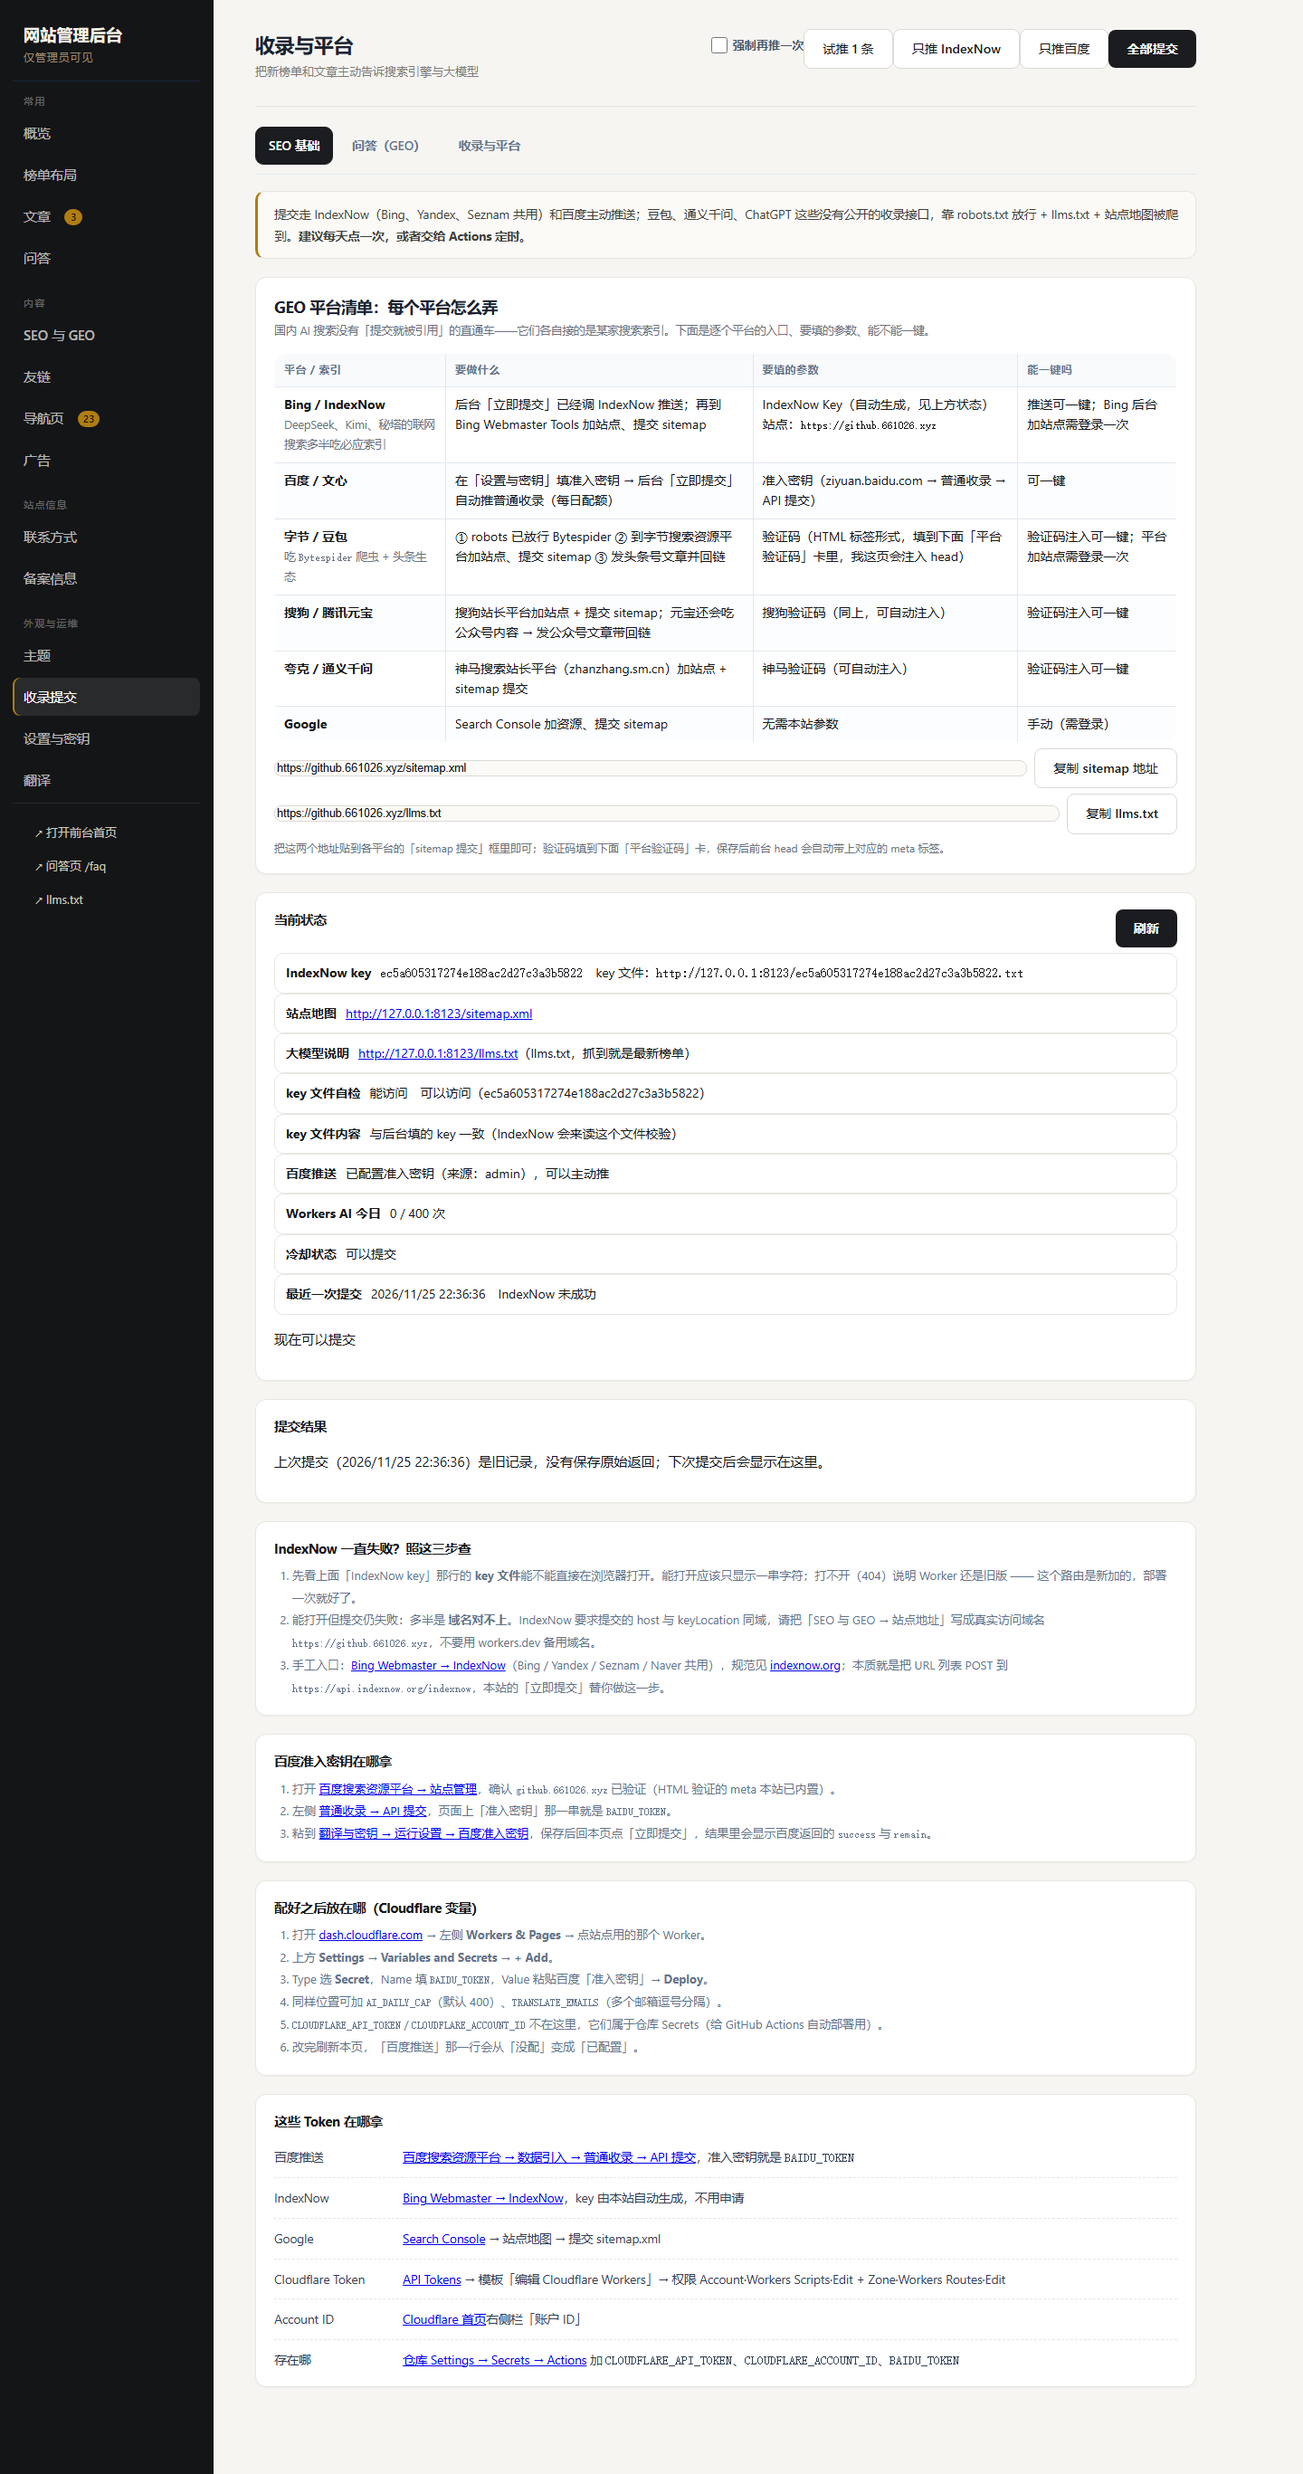
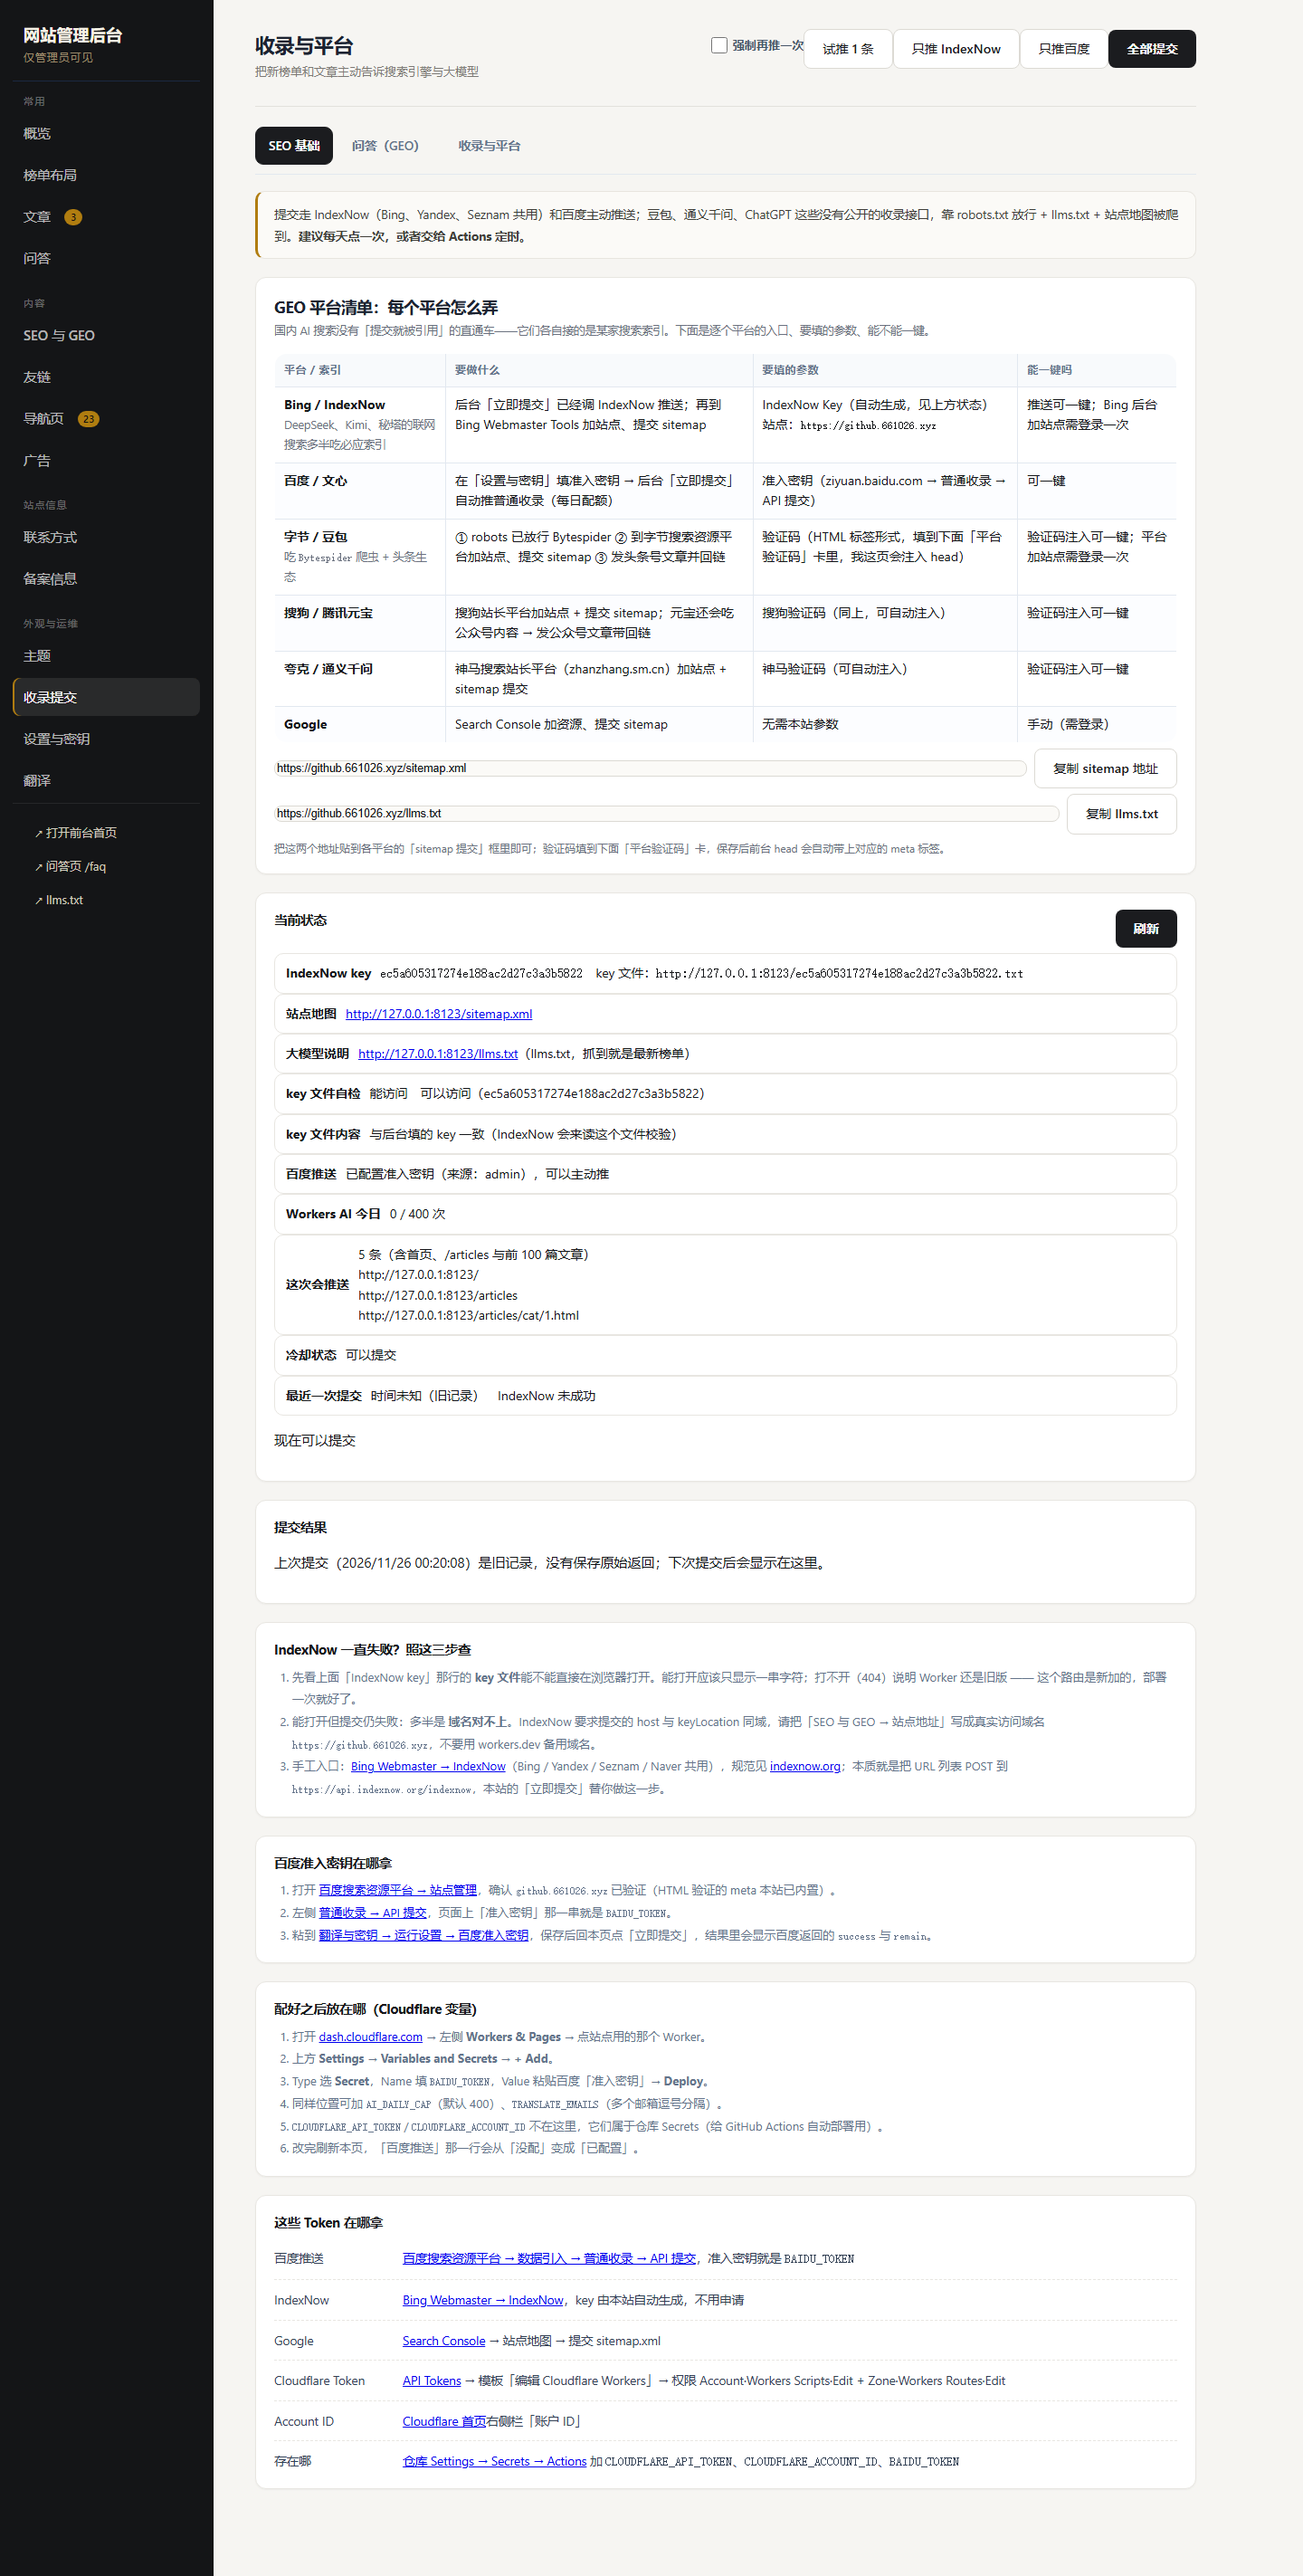
feat: 收录提交显示将推送的地址条数与前几条；v96

diff --git a/worker.js b/worker.js
@@ -1441,7 +1441,7 @@ async function injectFaqLd(env, html) {
 
 // 静态资源版本：HTML 里的 /js/*.js 都会被加上 ?v=<这里>，于是能给浏览器一年 immutable；
 // 改了前端就把它 +1（不然用户浏览器会抱着一周的旧 bundle，界面上去点了没反应）
-const ASSET_V = 'v95';
+const ASSET_V = 'v96';
 
 function emptyNav() {
   return { updatedAt: '', groups: [] };
@@ -1930,6 +1930,21 @@ async function handleSubmit(request, env, origin) {
     } catch (e) {
       keyNote = '抓取失败：' + ((e && e.message) || 'network');
     }
+    let urlCount = 2;
+    let urlSample = [origin + '/', origin + '/articles'];
+    try {
+      const avPrev = await readArticles(env);
+      const itemsPrev = (avPrev.articles || []).slice();
+      itemsPrev.slice(0, 100).forEach(function (a) {
+        if (!a || !a.id) return;
+        const pth = a.slug
+          ? '/articles/' + String(a.slug).split('/').map(encodeURIComponent).join('/') + '.html'
+          : '/articles#' + encodeURIComponent(String(a.id));
+        urlSample.push(origin + pth);
+      });
+      urlCount = urlSample.length;
+      urlSample = urlSample.slice(0, 5);
+    } catch (e) {}
     return json({
       ok: true,
       status: {
@@ -1941,6 +1956,8 @@ async function handleSubmit(request, env, origin) {
         indexKeySource: rtSubmit && rtSubmit.indexNowKey ? 'admin' : (env.INDEXNOW_KEY ? 'env' : 'auto'),
         sitemap: origin + '/sitemap.xml',
         llms: origin + '/llms.txt',
+        urlCount: urlCount,
+        urlSample: urlSample,
         baiduToken: !!baiduNow,
         baiduTokenSource: (rtSubmit && rtSubmit.baiduToken) ? 'admin' : (env.BAIDU_TOKEN ? 'env' : 'none'),
         aiUsage: await aiUsage(env, rtSubmit),
@@ -5508,6 +5525,7 @@ tr:hover td{background:#fcfbf8}
         subLine('key 文件内容', s.keyFileMatch ? '与后台填的 key 一致（IndexNow 会来读这个文件校验）' : '和后台填的 key 不一致，Bing 会拒（422）', !!s.keyFileMatch) +
         subLine('百度推送', s.baiduToken ? '已配置准入密钥（来源：' + navEsc(s.baiduTokenSource || 'env') + '），可以主动推' : '没填准入密钥，点提交时会跳过百度', !!s.baiduToken) +
         subLine('Workers AI 今日', s.aiUsage ? (s.aiUsage.used + ' / ' + (s.aiUsage.unlimited ? '不限制' : s.aiUsage.cap) + ' 次' + (s.aiUsage.capSource === 'admin' ? '（上限来自后台）' : '')) : '—', true) +
+        subLine('这次会推送', (s.urlCount ? (s.urlCount + ' 条（含首页、/articles 与前 100 篇文章）') : '—') + (s.urlSample && s.urlSample.length ? '<br><span class="muted">' + s.urlSample.slice(0, 3).map(function (u) { return navEsc(u); }).join('<br>') + '</span>' : ''), !!s.urlCount) +
         subLine('冷却状态', (s.cooldown && s.cooldown.seconds > 0) ? '还要等 ' + s.cooldown.seconds + ' 秒才能再推（防 IndexNow 429）' : '可以提交', !(s.cooldown && s.cooldown.seconds > 0)) +
         subLine('最近一次提交', last ? ((last.at ? new Date(last.at).toLocaleString() : '时间未知（旧记录）') + '　' + ((last.results && last.results.indexNow && last.results.indexNow.ok) ? 'IndexNow 成功' : 'IndexNow 未成功')) : '还没提交过', !!last);
       var cool = (s.cooldown && s.cooldown.seconds) ? s.cooldown.seconds : 0;

diff --git a/sw.js b/sw.js
@@ -1,5 +1,5 @@
 /* Service Worker：缓存页面外壳（HTML/JS/图标），让离线也能打开；GitHub API 不缓存，由页面自己的 localStorage 管理 */
-const CACHE = 'ghrank-shell-v95';
+const CACHE = 'ghrank-shell-v96';
 const SHELL = ['./', 'index.html', 'js/bundle.js', 'js/md.js', 'manifest.json', 'icon.svg'];
 // 只预缓存 meta（约 2KB）。榜单数据按 range 分文件、由页面按需加载，不再在安装时白下几�?KB
 const DATA = 'data/repos-meta.js';

diff --git a/docs/优化建议.md b/docs/优化建议.md
@@ -1060,3 +1060,18 @@ CDP 登录后台，逐个点开 13 个面板（overview/layout/articles/nav/qa/s
 ### 坑
 - Worker 里没有前端那个 `artPath()`，sitemap 是就地拼 `'/articles/' + slug.split('/').map(encodeURIComponent).join('/') + '.html'`；RSS 里照抄同一段，直接调 `artPath()` 会 `ReferenceError: artPath is not defined`（第一次就是这么 500 的）。
 - `<a>`/`<link>` 里的 `&` 必须转义成 `&amp;`，标题里带 `&` 的文章否则会让订阅器解析失败。
+
+## 66. 第 41 轮：收录提交「这次会推送多少条」预览
+
+### 做了什么
+- `/api/submit` 的 GET 状态新增 `urlCount` 与 `urlSample`（前 5 条），后台「收录提交 → 当前状态」里多一行 **「这次会推送 N 条（含首页、/articles 与前 100 篇文章）」**，下面小灰字列出前 3 条真实地址。
+- 不用点提交就能知道将要推什么、推多少；文章增删后刷新状态即刻反映。
+
+### 验证
+- 本地 `/api/submit` 实测 `urlCount=5`、`urlSample` 前三条为 `/`、`/articles`、`/articles/cat/1.html`。
+- 截图 `docs/shots/admin-submit.png`（1440×2846）。
+- `node --check worker.js`、`check-admin-script` 通过；`scripts/check-live.mjs` 加断言 `/api/submit 状态`（`urlCount` 是正整数），现共 **41 项**。
+
+### 坑
+- `handleSubmit` 的 GET 分支原来只读 `siteRuntime` + `rawJson`，预览要拿规范地址就必须走 `readArticles(env)`（它会 `fillArticleSlugs`）；用 `rawJson` 拿到的老文章没有 slug，地址会退回 `#id` 形式。
+- 状态行是拼 `subLine()` 的 HTML，插入 `<br><span class="muted">` 时注意别破坏后面 `+` 连接的表达式——这次是把新行整段塞在 `subLine('冷却状态',` 之前。
